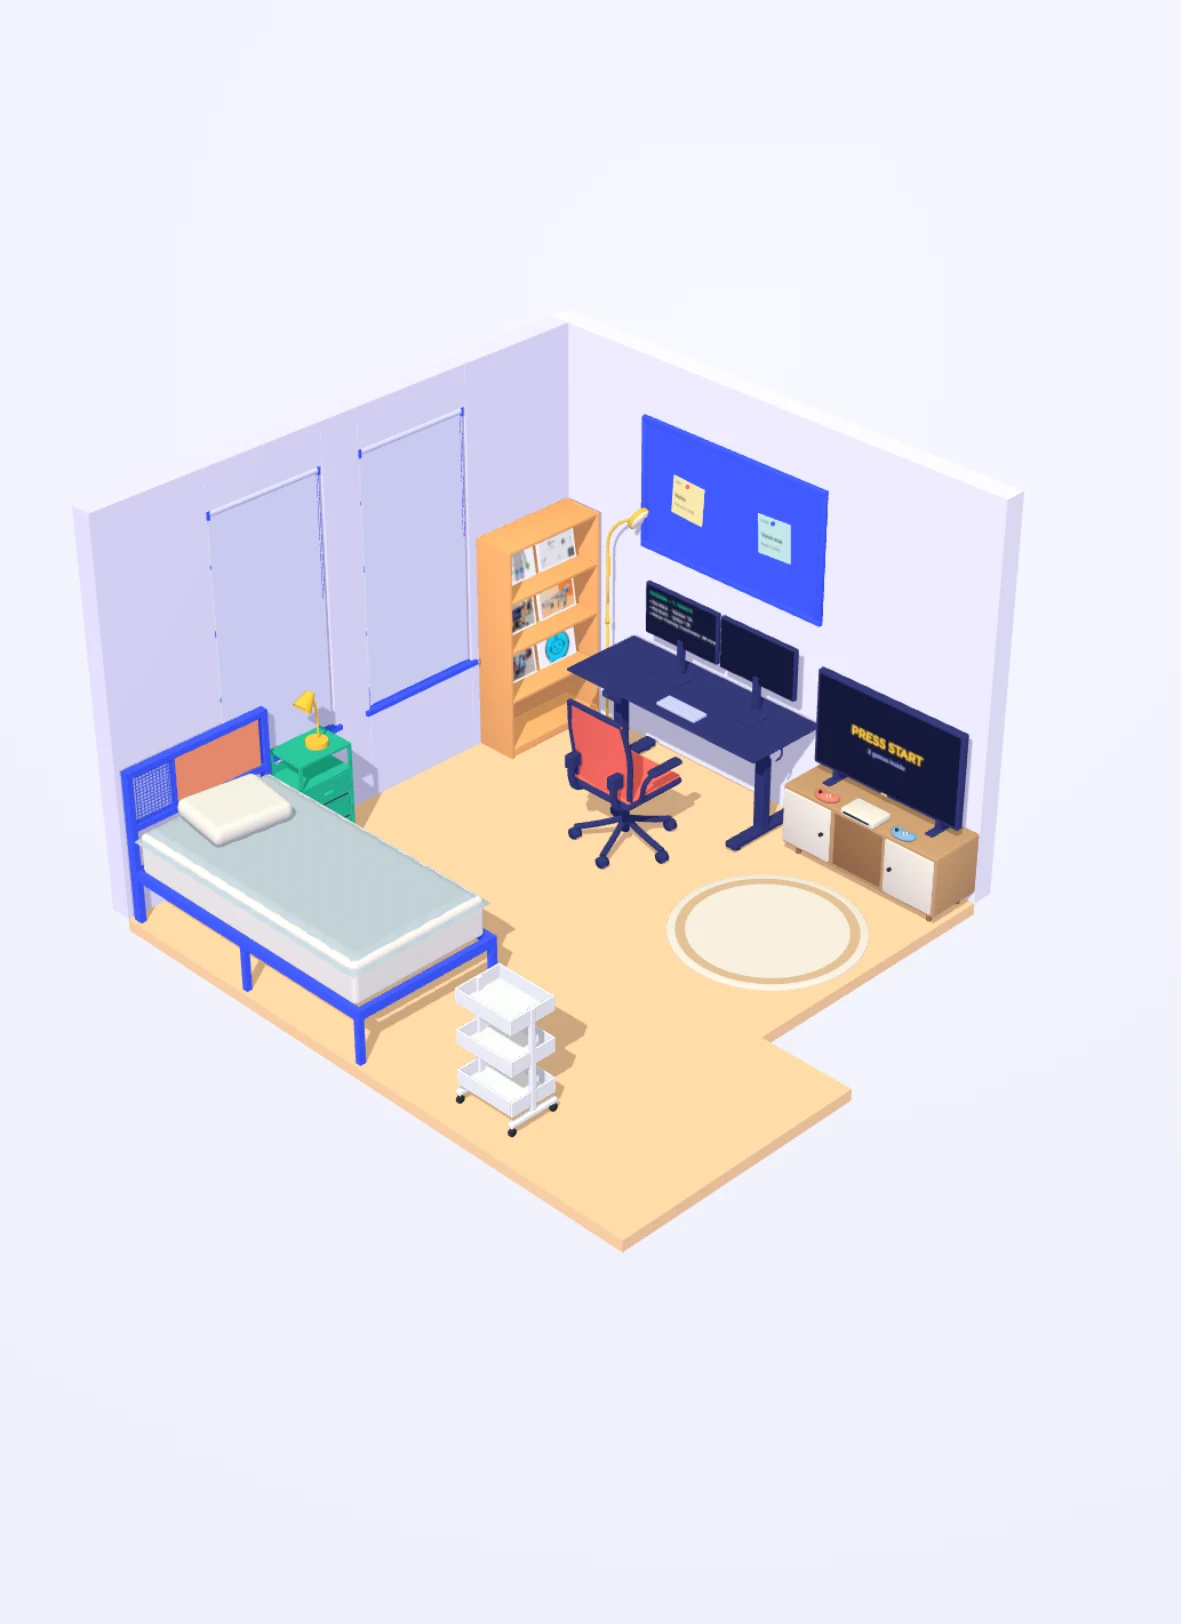
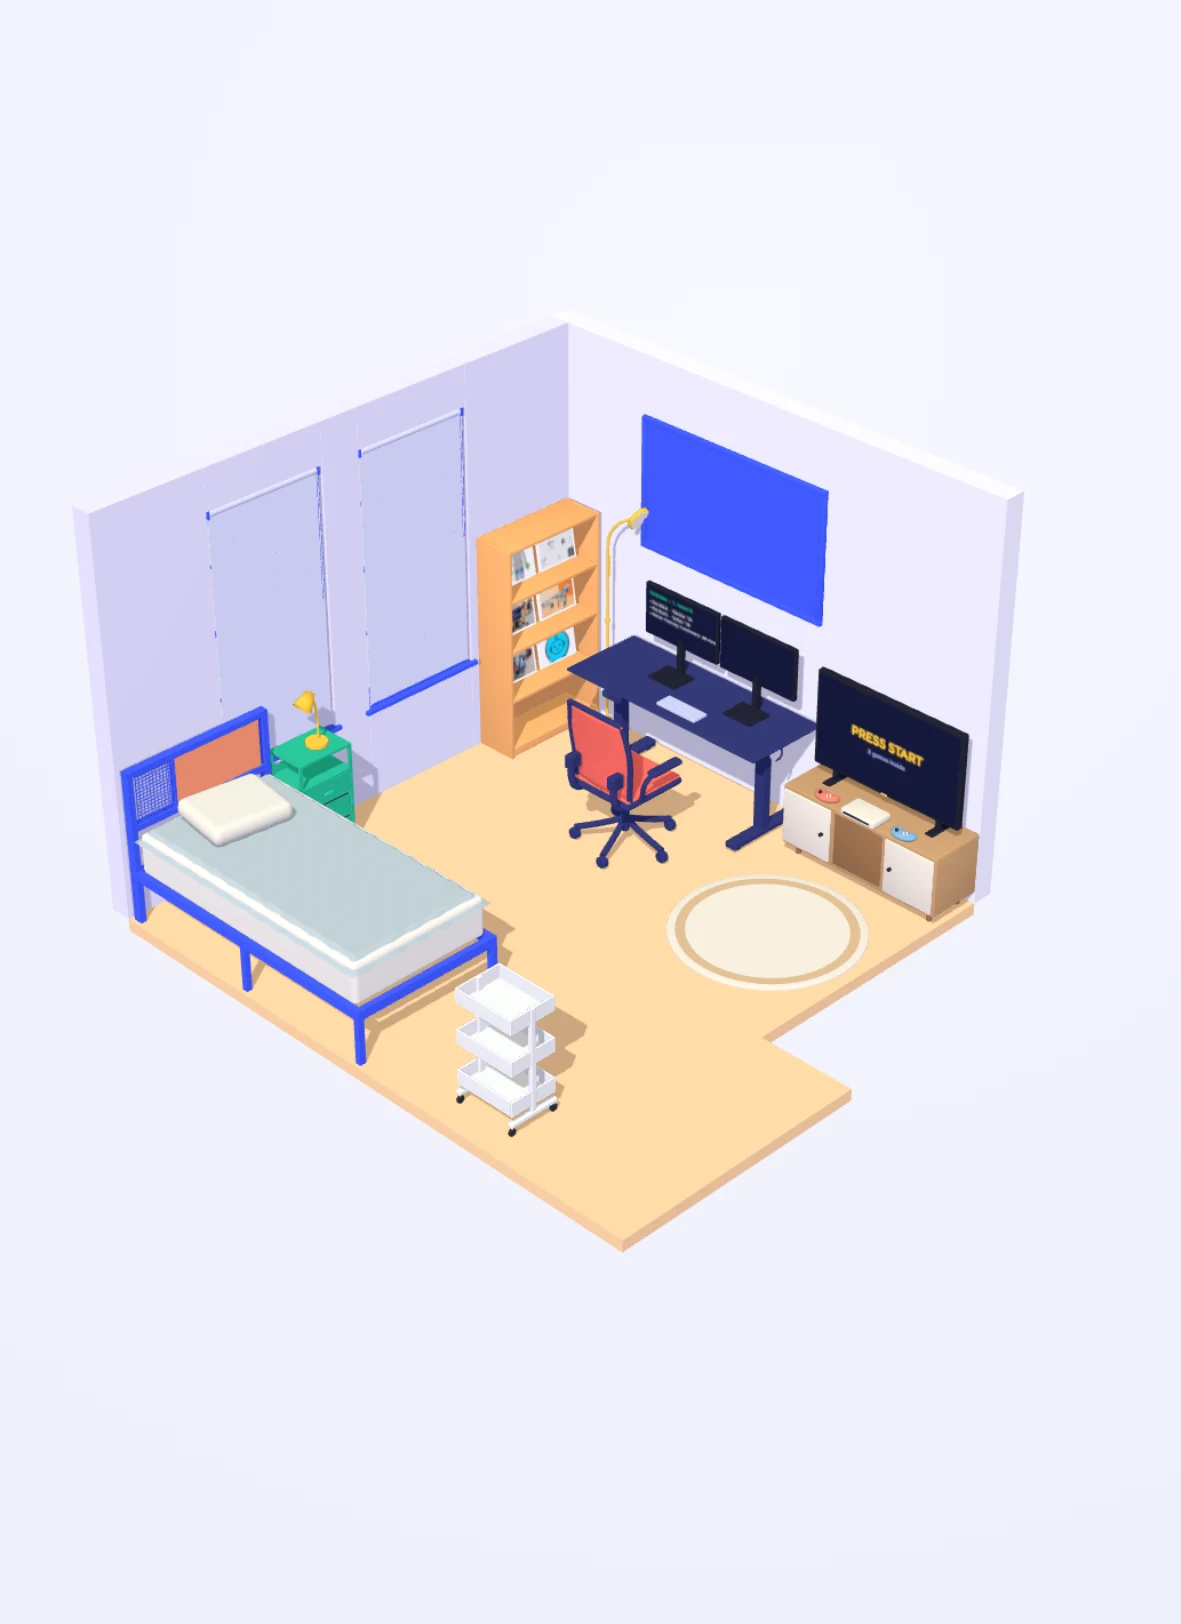
Bevel the measured-model furniture; fix the og script
- New export with bevels on every source part that had none (doors,
  windows, lamps, chair parts, keyboard…); sizes and origins unchanged;
  1.23 MB compressed in total.
- Posters and public/og.png re-rendered.
- bin/room-og.mjs: don't shadow the global URL.

diff --git a/redesign/PLAN.md b/redesign/PLAN.md
@@ -97,7 +97,7 @@ Asset rules and checklist in [BLENDER_TODO.md](BLENDER_TODO.md). Modeling by me;
 - [x] Export + watch script: `bin/room-assets [--watch]` exports every asset collection to `public/room/assets/` with `manifest.json`, meshopt-compressed (0.77 MB total)
 - [x] First asset set from the existing model: bed, desk, monitor, chair, lamp, cart, side table, nightstand, mirror, door, window (+ glass table, desk lamp, keyboard, paper)
 - [x] New assets: pinboard, game corner (tv, tvstand, console, beanbag, gamebox), projects bookshelf
-- [ ] Clay look on assets: bevels and clay colors done on the new assets only; the 15 measured-model assets still need both (BLENDER_TODO §2.5); optional per-asset baked AO
+- [x] Clay look on assets: bevels on all assets (2026-10-21); measured-model assets take clay colors by role in `room.config.ts`; optional per-asset baked AO still open
 
 ### Phase 2: Astro skeleton
 - [x] New Astro project on branch `astro-redesign` (worktree `.claude/worktrees/astro-redesign`, uncommitted); remove Jekyll/al-folio files (CONTENT.md §5) in the same branch

diff --git a/redesign/BLENDER_TODO.md b/redesign/BLENDER_TODO.md
@@ -92,7 +92,7 @@ Toy-sized figurines (fit in a 30 cm tier; real scale doesn't apply, the config s
 | `asset_moirelens` | MoiréLens | Small camera on a tripod pointing at a striped card |
 
 ### 2.5 Finishing, every asset
-- [ ] Bevel modifier (width ~1–2 cm, 2–3 segments, "Harden Normals"): done on the 7 new assets (§2.2); **not** on the 15 assets from the measured model (`build_existing` in `scripts/build_assets.py` only joins parts)
+- [x] Bevel modifier: on all assets (measured-model parts get 3 segments, ≤ 12 mm, harden normals; 2026-10-21)
 - [x] Materials renamed to roles (`frame`, `fabric`, `wood`, `metal`, `screen`, `glass`, `glow`, `accent`)
 - [ ] Clay colors: the new assets use the clay palette; the measured-model assets keep their product colors in the `Color` vertex attribute (black chair, grey desk, black metal frames). Either recolor in Blender or override by role in `room.config.ts`
 - [x] Origin bottom center, front −Y, scale applied
